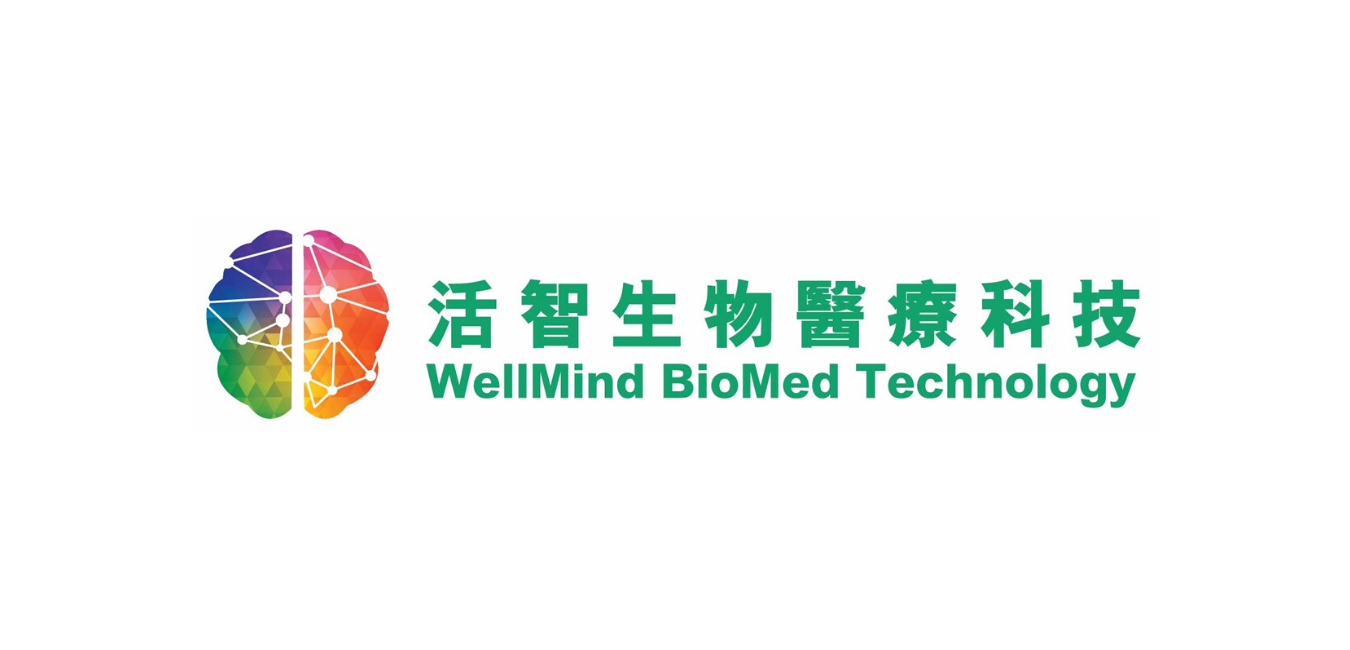
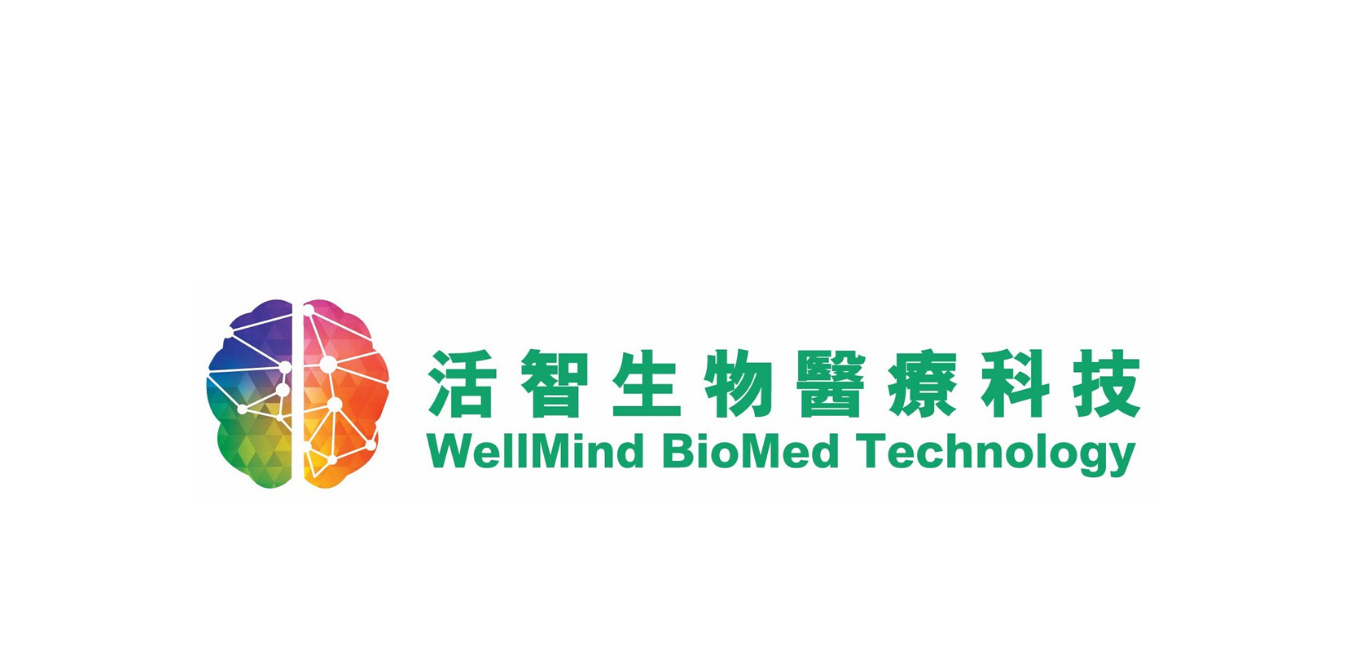
Add files via upload

Changed region(s): [[0.1556, 0.3385, 0.84, 0.7692]]

diff --git a/cindex.html b/cindex.html
@@ -32,21 +32,21 @@
 
     <center>
         <section id=home>
-            <img src=1.png width=1250 height=635>
-            <img src=2c.png width=1250 height=635>
-            <img src=3c.png width=1250 height=635>
+            <img src=1.png width="100%"><br><br><br><br>
+            <img src=2c.png width="100%">
+            <img src=3c.png width="100%">
         </section>
     
         <section id="about">
-            <img src=4c.png width=1250 height=635>
+            <img src=4c.png width="100%">
         </section>
       
         <section id="team">
-            <img src=5c.png width=1250 height=635>
+            <img src=5c.png width="100%">
         </section>
     
         <section id="contact">
-            <img src=6c.png width=1250 height=635>
+            <img src=6c.png width="100%">
         </section>
         </center>
 

diff --git a/index.html b/index.html
@@ -32,21 +32,21 @@
 
     <center>
     <section id=home>
-        <img src=1.png width=1250 height=635>
-        <img src=2.png width=1250 height=635>
-        <img src=3.png width=1250 height=635>
+        <img src=1.png width="100%"><br><br><br><br>
+        <img src=2.png width="100%">
+        <img src=3.png width="100%">
     </section>
 
     <section id="about">
-        <img src=4.png width=1250 height=635>
+        <img src=4.png width="100%">
     </section>
   
     <section id="team">
-        <img src=5.png width=1250 height=635>
+        <img src=5.png width="100%">
     </section>
 
     <section id="contact">
-        <img src=6.png width=1250 height=635>
+        <img src=6.png width="100%">
     </section>
     </center>
 
